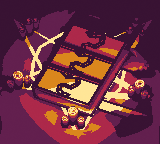
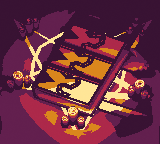
You can now open the book

Changed region(s): [[0.3125, 0.3333, 0.4375, 0.4444], [0.4062, 0.1944, 0.5, 0.2778], [0.25, 0.5, 0.3438, 0.5833]]

diff --git a/src/game.js b/src/game.js
@@ -220,6 +220,34 @@ export class Game {
             return;
         }
 
+        if (x > 52 && y > 49 && x < 67 && y < 62 && this.state === Game_State.Main && this.stage === 14) {
+            this.stage++;
+            return;
+        }
+
+        if (this.stage === 15) {
+            if (x > 65 && y > 30 && x < 79 && y < 39 && this.state === Game_State.Main) {
+                this.stage++;
+                return;
+            } else {
+                this.stage--;
+                return;
+            }
+        }
+
+        if (this.stage === 16) {
+            if (x > 38 && y > 71 && x < 54 && y < 84 && this.state === Game_State.Main) {
+                this.stage++;
+                this.screenShake = 1000;
+                this.devotionCurrent += 10;
+                return;
+            } else {
+                this.stage--;
+                this.stage--;
+                return;
+            }
+        }
+
         console.log(x,y);
     }
 

diff --git a/src/graphics.js b/src/graphics.js
@@ -60,6 +60,18 @@ export const Graphics = {
         {
             Paths: ["assets/stages/stage_14_1.png", "assets/stages/stage_14_2.png"],
             Images: []
+        },
+        {
+            Paths: ["assets/stages/stage_15_1.png", "assets/stages/stage_15_2.png"],
+            Images: []
+        },
+        {
+            Paths: ["assets/stages/stage_16_1.png", "assets/stages/stage_16_2.png"],
+            Images: []
+        },
+        {
+            Paths: ["assets/stages/stage_17_1.png", "assets/stages/stage_17_2.png"],
+            Images: []
         }
     ],
 
